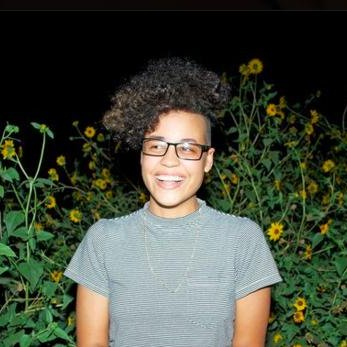
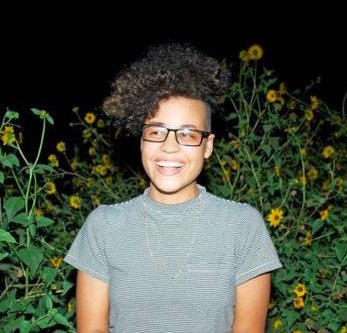
fixed line in about me picture

diff --git a/public/styles/styles.css b/public/styles/styles.css
@@ -31,33 +31,33 @@ nav {
 
 #projects {
   margin-top: 680px;
-  text-align: center
+  text-align: center;
 }
 
 #about-me img {
   border-radius:100%;
   text-align: center;
   margin-top: 50px;
-
+  margin-bottom:25px;
 }
 
 #icons {
   text-align:center;
-  margin-bottom: 100px
+  margin-bottom: 100px;
 }
 
 #about-me {
   text-align: center;
-  margin-bottom: 100px
+  margin-bottom: 100px;
 }
 
 #resume {
   margin-bottom:100px;
-  text-align: center
+  text-align: center;
 }
 
 hr {
-  margin-bottom: 100px
+  margin-bottom: 100px;
 }
 
 .carousel-inner > .item > img,
@@ -87,20 +87,6 @@ hr {
   color:lime;
 }
 
-
-
-.carousel-indicators li {
-    display: inline-block;
-    width: 10px;
-    height: 10px;
-    margin: 1px;
-    text-indent: -999px;
-    cursor: pointer;
-    background-color: #000\9;
-    background-color: rgba(0,0,0,0);
-    border: 1px solid grey;
-    border-radius: 10px;
-}
 .carousel-indicators li {
     display: inline-block;
     width: 10px;
